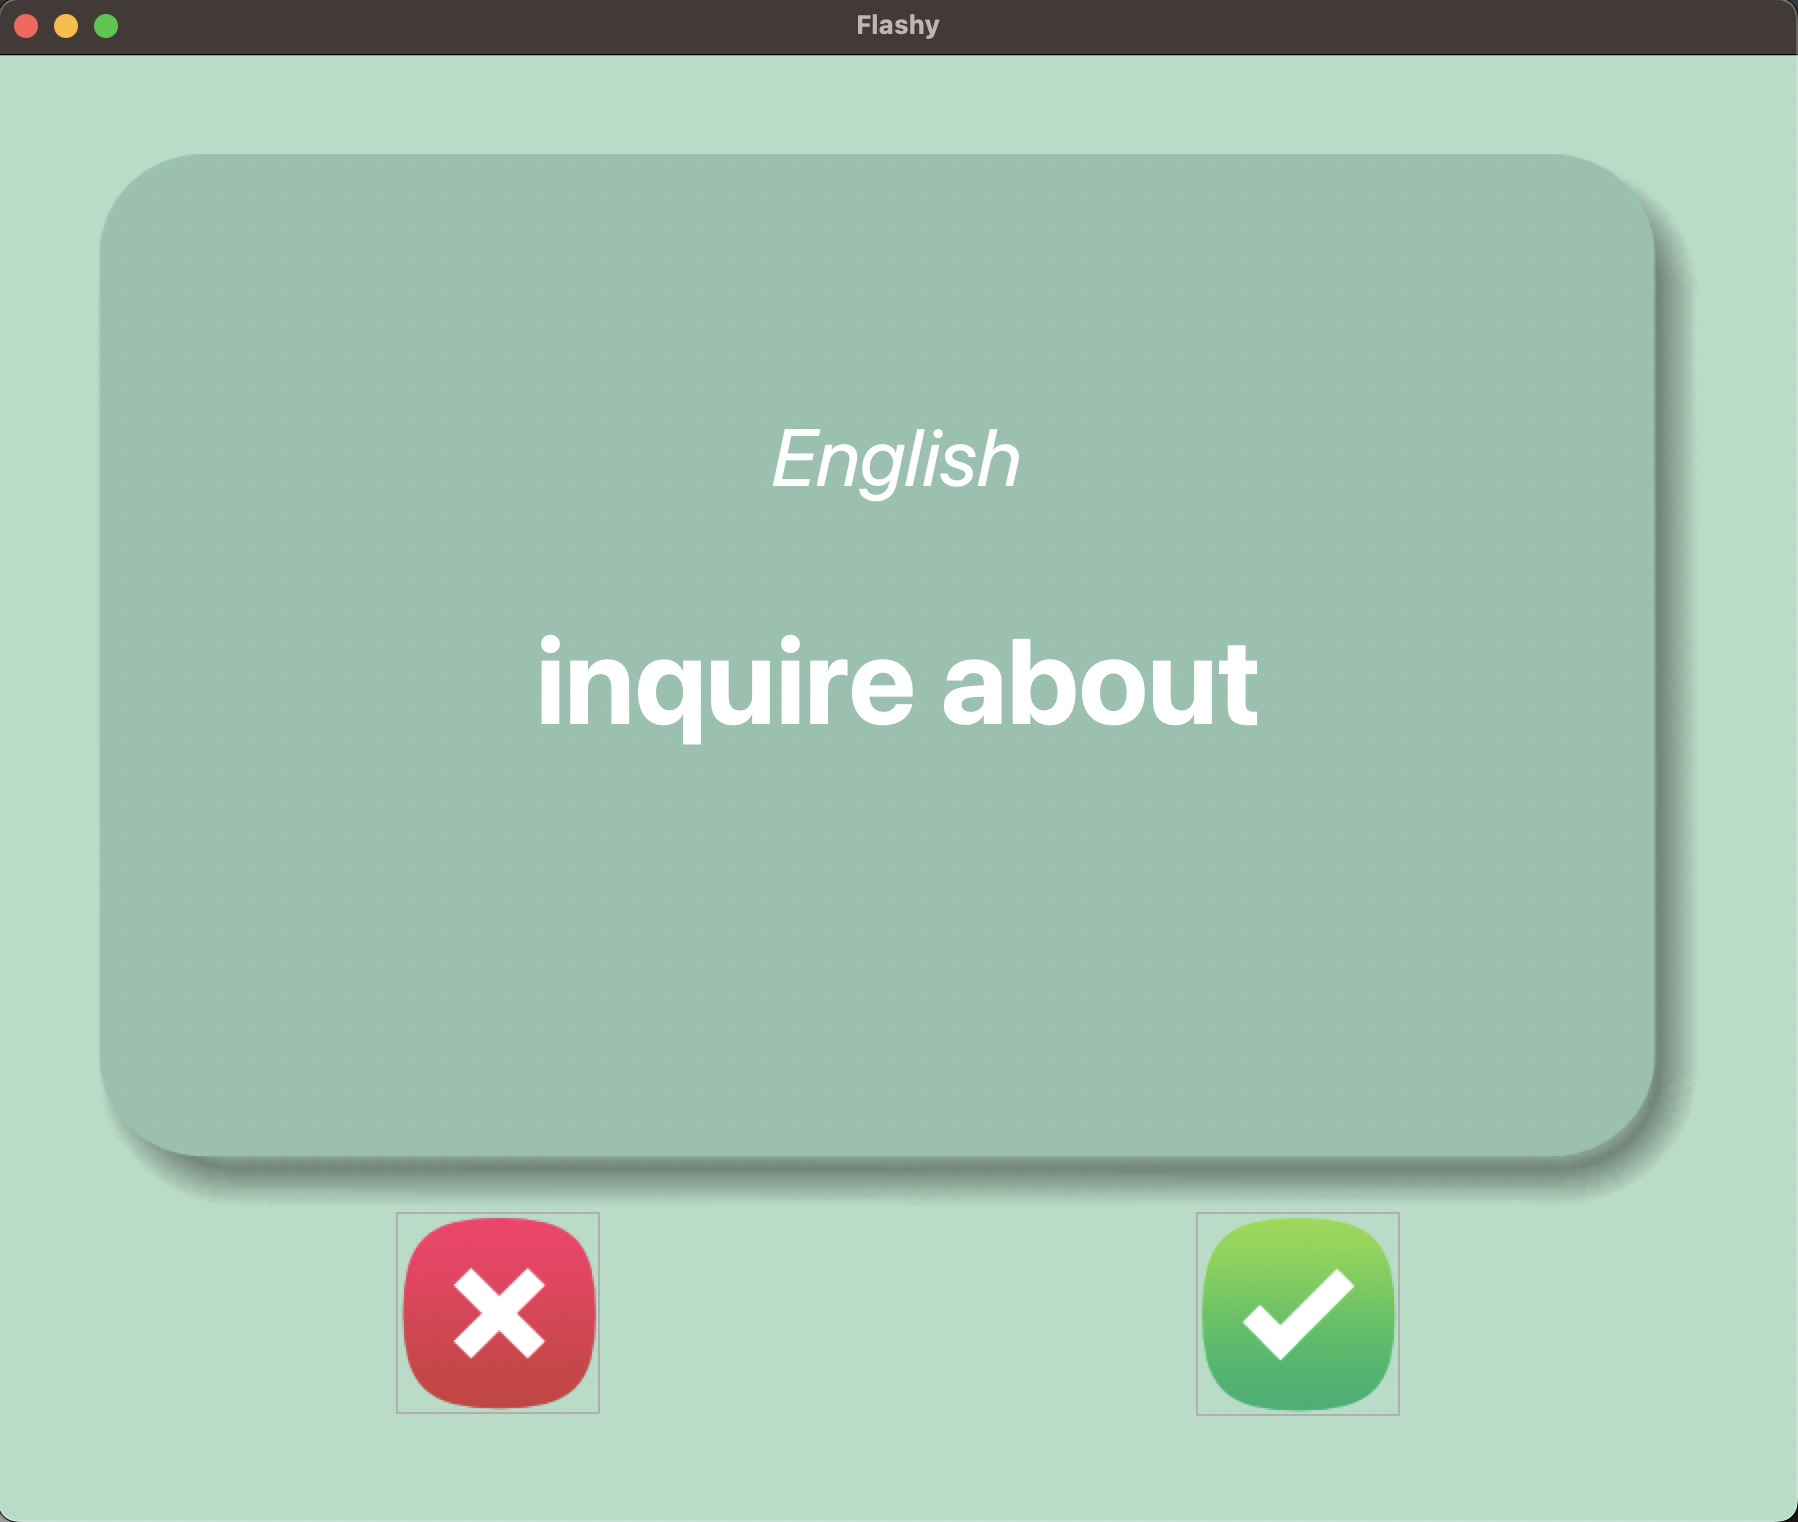
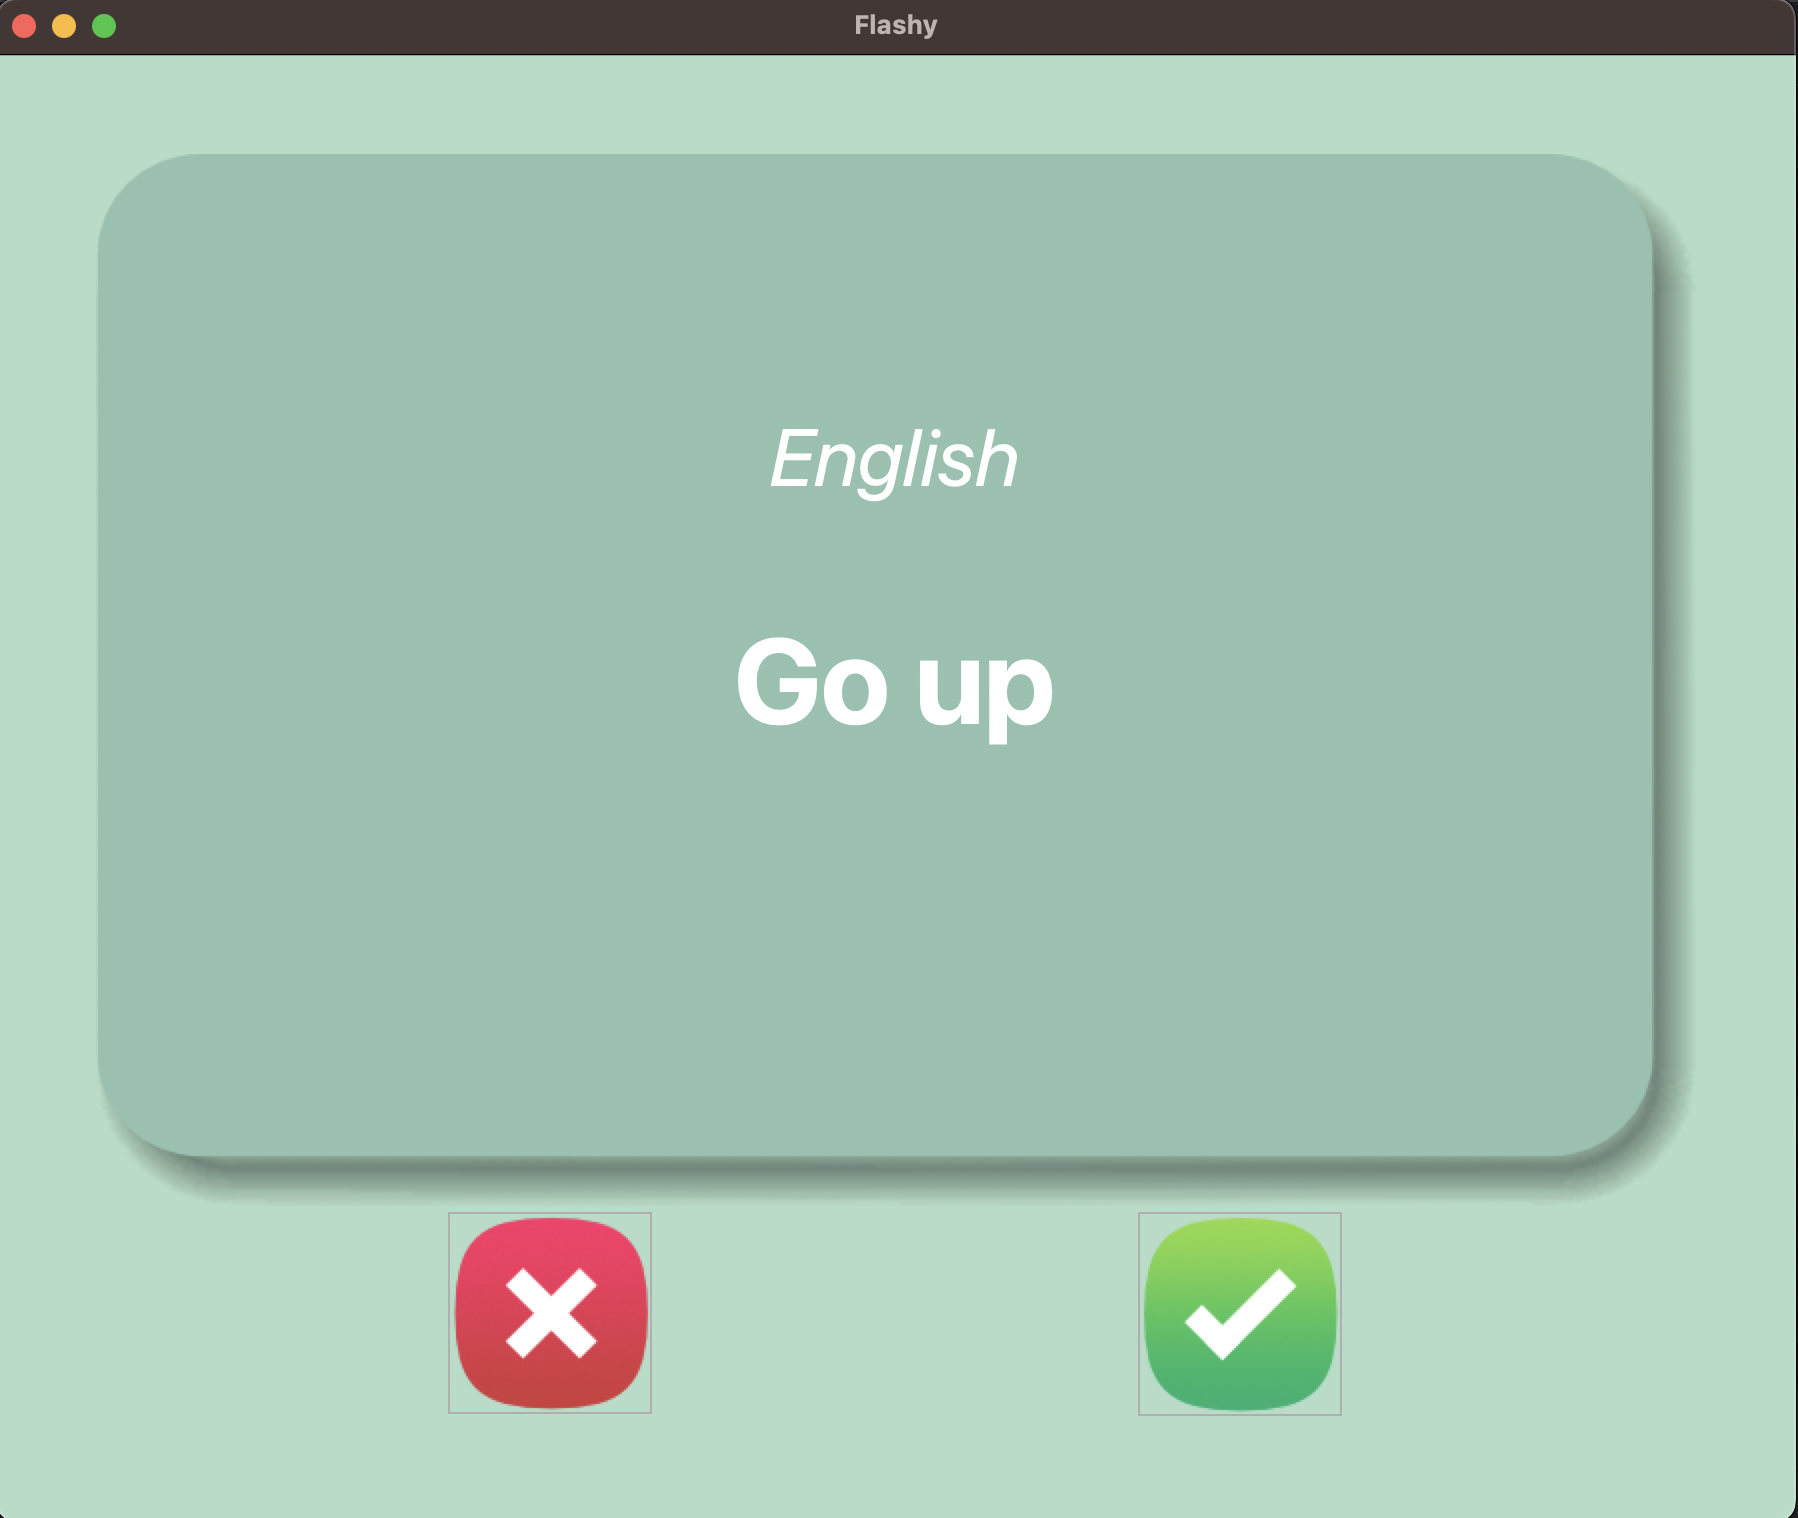
Refactoring code and adding pinyin
Made app class to consolidate and simplify canvas actions.
Added fully functional pinyin button. Resets state on each card.

diff --git a/main.py b/main.py
@@ -1,4 +1,4 @@
-from tkinter import *
+import tkinter as tk
 from random import choice
 import pandas as pd
 import pinyin
@@ -36,97 +36,110 @@ current_pinyin = None
 show_pinyin = False
 
 
-def hide_widget(widget):
-    canvas.itemconfig(1, state='hidden')
+class App(object):
+    def __init__(self):
+        window.title("Flashy")
+        window.config(padx=50, pady=50, bg=BACKGROUND_COLOR)
+
+        self.canvas = tk.Canvas(width=800, height=526, bg=BACKGROUND_COLOR, highlightthickness=0)
+        # image_img = PhotoImage(file="images/images.png")
+        self.card_back_img = tk.PhotoImage(file="images/card_back.png")
+        self.card_front_img = tk.PhotoImage(file="images/card_front.png")
+        self.card_image = self.canvas.create_image(400, 263, image=self.card_front_img)
+        self.card_title = self.canvas.create_text(400, 150, fill="#000000", font=("Ariel", 40, "italic"))
+        self.card_word = self.canvas.create_text(400, 263, fill="#000000", font=("Ariel", 60, "bold"))
+        self.card_pinyin_label = self.canvas.create_text(400, 363, fill="#000000", font=("Ariel", 60, "bold"))
+        self.canvas.itemconfig(self.card_pinyin_label, state='hidden')
+        self.show_pinyin_button = tk.Button(window, highlightbackground="#FFFFFF", bg="#FFFFFF", text="Show Pinyin", command=self.show_pinyin)  # , height=3, width=10)
+        self.canvas.bind("<Button-1>", self.on_click)
+
+        # Buttons
+        self.correct_img = tk.PhotoImage(file="images/right.png")
+        self.incorrect_img = tk.PhotoImage(file="images/wrong.png")
+        self.wrong_button = tk.Button(highlightbackground=BACKGROUND_COLOR, bg=BACKGROUND_COLOR, image=self.incorrect_img, command=self.incorrect)
+        self.correct_button = tk.Button(highlightbackground=BACKGROUND_COLOR, bg=BACKGROUND_COLOR, image=self.correct_img, command=self.correct)
+
+        # Grid Layout
+        self.canvas.grid(column=0, row=0, columnspan=15, rowspan=10)
+        self.wrong_button.grid(column=5, row=10)
+        self.correct_button.grid(column=9, row=10)
+        self.show_pinyin_button.grid(column=7, row=7)
+
+        # Set up flashcards
+        self.next_card()
+
+    def show_pinyin(self):
+        global show_pinyin
+        show_pinyin = True
+        self.show_pinyin_button.lower()  # Lowers button below canvas. i.e. out of view. Much easier than destroying
+        # self.show_pinyin_button.destroy()
+        self.canvas.itemconfig(self.card_pinyin_label, state='normal')
+
+    def flip_card(self):
+        global side
+        global current_card
+        global current_pinyin
+        global show_pinyin
+        if side == 'front':
+            side = 'back'
+            self.canvas.itemconfig(self.card_image, image=self.card_back_img)
+            self.canvas.itemconfig(self.card_title, text="English", fill="#FFFFFF")
+            self.canvas.itemconfig(self.card_word, text=current_card["English"], fill="#FFFFFF")
+            self.canvas.itemconfig(self.card_pinyin_label, text="", fill="#000000")
+            if not show_pinyin:
+                # If pinyin is not shown, hide button on back
+                self.show_pinyin_button.lower()
+        else:
+            side = 'front'
+            self.canvas.itemconfig(self.card_image, image=self.card_front_img)
+            self.canvas.itemconfig(self.card_title, text="Chinese", fill="#000000")
+            self.canvas.itemconfig(self.card_word, text=current_card["Chinese"], fill="#000000")
+            self.canvas.itemconfig(self.card_pinyin_label, text=current_pinyin, fill="#000000")
+            if not show_pinyin:
+                # If pinyin is shown, show again on front
+                self.show_pinyin_button.lift()
+
+    def next_card(self):
+        global current_card
+        global side
+        global current_pinyin
+        global show_pinyin
+        if side == 'back':
+            self.flip_card()
+        current_card = choice(to_learn)
+        self.canvas.itemconfig(self.card_title, text="Chinese")
+        self.canvas.itemconfig(self.card_word, text=current_card["Chinese"])
+        current_pinyin = pinyin.get(current_card["Chinese"], delimiter=" ")
+        self.canvas.itemconfig(self.card_pinyin_label, text=current_pinyin, fill="#000000")
+
+        # Reset Pinyin button states for next card
+        self.canvas.itemconfig(self.card_pinyin_label, state='hidden')
+        self.show_pinyin_button.lift()
+        show_pinyin = False
+
+    def correct(self):
+        global current_card
+        correct_words.append(current_card)
+        to_learn.remove(current_card)
+        correct_df = pd.DataFrame(correct_words)
+        correct_df.to_csv("data/correct_words.csv", index=False)
+        self.next_card()
+
+    def incorrect(self):
+        global current_card
+        incorrect_words.append(current_card)
+        to_learn.remove(current_card)
+        incorrect_df = pd.DataFrame(incorrect_words)
+        incorrect_df.to_csv("data/incorrect_words.csv", index=False)
+        words_to_learn_df = pd.DataFrame(to_learn)
+        words_to_learn_df.to_csv("data/words_to_learn.csv", index=False)
+        self.next_card()
+
+    def on_click(self, event):
+        self.flip_card()
 
 
-def show_widget(widget):
-    canvas.itemconfig(1, state='normal')
-
-
-def next_card():
-    global current_card
-    global side
-    global current_pinyin
-    if side == 'back':
-        flip_card()
-    current_card = choice(to_learn)
-    canvas.itemconfig(card_title, text="Chinese")
-    canvas.itemconfig(card_word, text=current_card["Chinese"])
-    current_pinyin = pinyin.get(current_card["Chinese"], delimiter=" ")
-    canvas.itemconfig(card_pinyin, text=current_pinyin, fill="#000000")
-
-
-def flip_card():
-    global side
-    global current_pinyin
-    global show_pinyin
-    if side == 'front':
-        side = 'back'
-        canvas.itemconfig(card_image, image=card_back_img)
-        canvas.itemconfig(card_title, text="English", fill="#FFFFFF")
-        canvas.itemconfig(card_word, text=current_card["English"], fill="#FFFFFF")
-        canvas.itemconfig(card_pinyin, text="", fill="#000000")
-    else:
-        side = 'front'
-        canvas.itemconfig(card_image, image=card_front_img)
-        canvas.itemconfig(card_title, text="Chinese", fill="#000000")
-        canvas.itemconfig(card_word, text=current_card["Chinese"], fill="#000000")
-        canvas.itemconfig(card_pinyin, text=current_pinyin, fill="#000000")
-
-
-def on_click(event):
-    flip_card()
-
-
-def incorrect():
-    incorrect_words.append(current_card)
-    to_learn.remove(current_card)
-    incorrect_df = pd.DataFrame(incorrect_words)
-    incorrect_df.to_csv("data/incorrect_words.csv", index=False)
-    words_to_learn_df = pd.DataFrame(to_learn)
-    words_to_learn_df.to_csv("data/words_to_learn.csv", index=False)
-    next_card()
-
-
-def correct():
-    correct_words.append(current_card)
-    to_learn.remove(current_card)
-    correct_df = pd.DataFrame(correct_words)
-    correct_df.to_csv("data/correct_words.csv", index=False)
-    next_card()
-
-
-window = Tk()
-window.title("Flashy")
-window.config(padx=50, pady=50, bg=BACKGROUND_COLOR)
-
-canvas = Canvas(width=800, height=526, bg=BACKGROUND_COLOR, highlightthickness=0)
-# image_img = PhotoImage(file="images/images.png")
-card_back_img = PhotoImage(file="images/card_back.png")
-card_front_img = PhotoImage(file="images/card_front.png")
-card_image = canvas.create_image(400, 263, image=card_front_img)
-card_title = canvas.create_text(400, 150, fill="#000000", font=("Ariel", 40, "italic"))
-card_word = canvas.create_text(400, 263, fill="#000000", font=("Ariel", 60, "bold"))
-card_pinyin = canvas.create_text(400, 363, fill="#000000", font=("Ariel", 60, "bold"))
-# canvas.itemconfig(card_pinyin, state='hidden')
-# card_show_pinyin = Button(highlightbackground="#FFFFFF", bg="#FFFFFF", text="Show Pinyin",
-#                           command=lambda:show_widget(card_pinyin))#, height=3, width=10)
-canvas.bind("<Button-1>", on_click)
-
-# Buttons
-correct_img = PhotoImage(file="images/right.png")
-incorrect_img = PhotoImage(file="images/wrong.png")
-wrong_button = Button(highlightbackground=BACKGROUND_COLOR, bg=BACKGROUND_COLOR, image=incorrect_img, command=incorrect)
-correct_button = Button(highlightbackground=BACKGROUND_COLOR, bg=BACKGROUND_COLOR, image=correct_img, command=correct)
-
-# Grid Layout
-canvas.grid(column=0, row=0, columnspan=15, rowspan=10)
-wrong_button.grid(column=5, row=10)
-correct_button.grid(column=9, row=10)
-# card_show_pinyin.grid(column=7, row=7)
-
-# Set up flashcards
-next_card()
+window = tk.Tk()
+a = App()
 
 window.mainloop()

diff --git a/README.md b/README.md
@@ -12,7 +12,6 @@ Features:
 Chinese words taken from: https://github.com/hermitdave/FrequencyWords/tree/master/content/2018/zh_cn
 
 TODO:
-- Fix pinyin button logic to display pinyin
 - Hookup ChatGPT to generate Chinese sentences
 - Add pinyin for Chinese characters -> https://pypi.org/project/pinyin/
 - google translate -> https://pypi.org/project/googletrans/
@@ -34,9 +33,13 @@ How to run:
 - Progress is saved automatically
 - View data/ directory for more info
 
-Card Front:
+Card Front without pinyin:
 
-![alt text](https://github.com/J0K3Rn/Chinese-Flash-Cards/blob/main/screenshots/card_front.png?raw=true) 
+![alt text](https://github.com/J0K3Rn/Chinese-Flash-Cards/blob/main/screenshots/card_front_no_pinyin.png?raw=true) 
+
+Card Front with pinyin:
+
+![alt text](https://github.com/J0K3Rn/Chinese-Flash-Cards/blob/main/screenshots/card_front_with_pinyin.png?raw=true) 
 
 Card Back:
 
